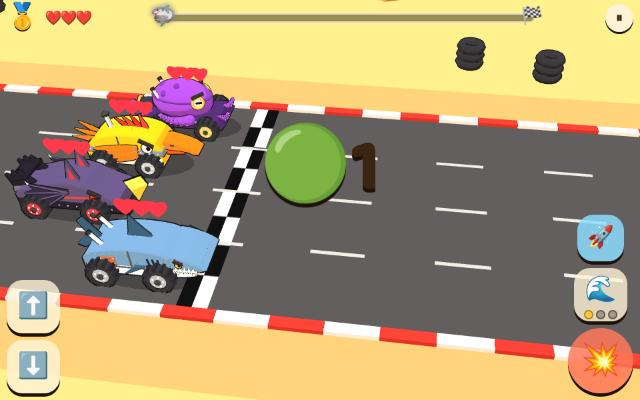
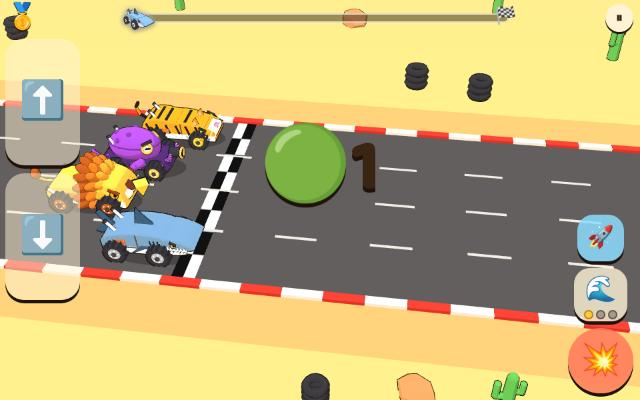
bryki: Kobra — ślizg wężykiem, czerwone oczy i kły
- models/wild-cars.js: brKobra — ciemnozielone nadwozie w łuski ze złotym pasem, głowa na szyi,
  kaptur z „okularami” (widać od tyłu), żuchwa, kły, język, ogon z segmentów; pozy i animacja
  (moc: szyja w górę, kaptur rozłożony, czerwone świecące oczy, głowa obraca się do kamery)
- game.js: atak KĄS!, moc ŚLIZG! — 3 s wężykiem: ogon smaga auta i przeszkody na sąsiednich
  pasach, w wyścigu z tyłu zostaje śliski śluz; AI używa mocy; w Infinity głowa odwraca się do gracza
- dzwieki.js: kąs, ślizg, klakson i syczący silnik kobry
- menu: siatka aut 3×3; galeria: kobra w czterech pozach

Claude-Session: https://claude.ai/code/session_01Y3fw4xhgvNbzyqSag9TcmX

diff --git a/bryki/game.js b/bryki/game.js
@@ -5,20 +5,20 @@
 // Tryb Infinity (diff 'inf'): sam gracz, w pionie, kamera za autem; przeszkody lecą z góry ekranu, 60 s jazdy, wynik w metrach,
 // pasek serii (bez uderzeń) przyspiesza auto, uderzenie zeruje serię i spowalnia jak w wyścigu.
 const PAS = 3.5, LANES = [-1.5, -.5, .5, 1.5].map(k => k * PAS), ROAD = 4 * PAS + .6;
-const KINDS = ['rekin', 'ptak', 'osmiornica', 'krab', 'nietoperz', 'zaba', 'tygrys', 'lew'];
-const IC = { rekin: '🦈', ptak: '🐦', osmiornica: '🐙', krab: '🦀', nietoperz: '🦇', zaba: '🐸', tygrys: '🐯', lew: '🦁' };
-const MOC_IC = { rekin: '🌊', ptak: '🪽', osmiornica: '🐙', krab: '🛡', nietoperz: '🦇', zaba: '🦿', tygrys: '🐾', lew: '📣' };
-const WORD_ATAK = { rekin: 'CHAP!', ptak: 'DZIOB!', osmiornica: 'PLUM!', krab: 'SZCZYP!', nietoperz: 'PIIISK!', zaba: 'MLASK!', tygrys: 'DRAP!', lew: 'GRRR!' };
-const WORD_MOC = { rekin: 'PŁETWA!', ptak: 'FRUU!', osmiornica: 'CHWYT!', krab: 'KOLCE!', nietoperz: 'RÓJ!', zaba: 'HOPSA!', tygrys: 'SUS!', lew: 'RYYYK!' };
-const SND_ATAK = { rekin: 'chap', ptak: 'dziob', osmiornica: 'tusz', krab: 'szczyp', nietoperz: 'pisk', zaba: 'jezyk', tygrys: 'drap', lew: 'grr' };
-const SND_MOC = { rekin: 'plum', ptak: 'trzepot', osmiornica: 'slurp', krab: 'klang', nietoperz: 'roj', zaba: 'sprezyna', tygrys: 'sus', lew: 'ryk' };
-const NAZWY = { rekin: 'Rekin', ptak: 'Ptak', osmiornica: 'Ośmiornica', krab: 'Krab', nietoperz: 'Nietoperz', zaba: 'Żaba', tygrys: 'Tygrys', lew: 'Lew',
+const KINDS = ['rekin', 'ptak', 'osmiornica', 'krab', 'nietoperz', 'zaba', 'tygrys', 'lew', 'kobra'];
+const IC = { rekin: '🦈', ptak: '🐦', osmiornica: '🐙', krab: '🦀', nietoperz: '🦇', zaba: '🐸', tygrys: '🐯', lew: '🦁', kobra: '🐍' };
+const MOC_IC = { rekin: '🌊', ptak: '🪽', osmiornica: '🐙', krab: '🛡', nietoperz: '🦇', zaba: '🦿', tygrys: '🐾', lew: '📣', kobra: '〰' };
+const WORD_ATAK = { rekin: 'CHAP!', ptak: 'DZIOB!', osmiornica: 'PLUM!', krab: 'SZCZYP!', nietoperz: 'PIIISK!', zaba: 'MLASK!', tygrys: 'DRAP!', lew: 'GRRR!', kobra: 'KĄS!' };
+const WORD_MOC = { rekin: 'PŁETWA!', ptak: 'FRUU!', osmiornica: 'CHWYT!', krab: 'KOLCE!', nietoperz: 'RÓJ!', zaba: 'HOPSA!', tygrys: 'SUS!', lew: 'RYYYK!', kobra: 'ŚLIZG!' };
+const SND_ATAK = { rekin: 'chap', ptak: 'dziob', osmiornica: 'tusz', krab: 'szczyp', nietoperz: 'pisk', zaba: 'jezyk', tygrys: 'drap', lew: 'grr', kobra: 'kas' };
+const SND_MOC = { rekin: 'plum', ptak: 'trzepot', osmiornica: 'slurp', krab: 'klang', nietoperz: 'roj', zaba: 'sprezyna', tygrys: 'sus', lew: 'ryk', kobra: 'slizg' };
+const NAZWY = { rekin: 'Rekin', ptak: 'Ptak', osmiornica: 'Ośmiornica', krab: 'Krab', nietoperz: 'Nietoperz', zaba: 'Żaba', tygrys: 'Tygrys', lew: 'Lew', kobra: 'Kobra',
   pustynia: 'Pustynia', zlomowisko: 'Złomowisko', wulkan: 'Wulkan', lodowiec: 'Lodowiec' };
 const LEN = 1150, CRUISE = 15, PX = -8, G = 24;              // długość trasy [m], prędkość [m/s], gracz na ekranie (x), grawitacja
 const ATAK_T = .7, ATAK_CD = 1.1, TURBO_T = 2.2, TURBO_CD = 6, MOC_FILL = 9, HIT_T = 1.0, BLINK_T = 1.4, SPIN_T = .7, GHOST_T = 1.6;
 // Moc: u każdego 3 s, ta sama prędkość i odporność; różni się tylko sposobem trafiania aut wokół
-const MOC_T = { rekin: 3, ptak: 3, osmiornica: 3, krab: 3, nietoperz: 3, zaba: 3, tygrys: 3, lew: 3 };
-const MOC_V = { rekin: 1.3, ptak: 1.3, osmiornica: 1.3, krab: 1.3, nietoperz: 1.3, zaba: 1.3, tygrys: 1.3, lew: 1.3 };
+const MOC_T = { rekin: 3, ptak: 3, osmiornica: 3, krab: 3, nietoperz: 3, zaba: 3, tygrys: 3, lew: 3, kobra: 3 };
+const MOC_V = { rekin: 1.3, ptak: 1.3, osmiornica: 1.3, krab: 1.3, nietoperz: 1.3, zaba: 1.3, tygrys: 1.3, lew: 1.3, kobra: 1.3 };
 const INF_T = 60, INF_V = 20;                                // Infinity: czas [s], prędkość startowa [m/s]
 // Infinity — prędkość: rośnie cały czas bez sufitu, przyspieszenie infAcc(v) = 1 + 30/v m/s² (mocne na starcie, potem słabsze):
 // czysta minuta 20 → 40 (10 s) → 71 (30 s) → ok. 110 m/s. Uderzenie: prędkość × ½ i dalej rozpędzanie od tego miejsca (bez szybkiego powrotu).
@@ -290,6 +290,7 @@ function genInf() {
 function itemMesh(it) {
   if (it.typ === 'tusz') return inkMesh();
   if (it.typ === 'jajo') return eggSplatMesh();
+  if (it.typ === 'sluz') return slimeMesh();
   if (it.typ === 'start' || it.typ === 'meta') return brMeta(ROAD, it.typ === 'meta', it.typ === 'meta');
   if (it.typ === 'tunel') return brTunel(it.half * 2, TH.tunel, ROAD);
   if (it.typ === 'most') return brMost(it.half * 2, 1.8, ROAD, TH.woda, TH.lawa, TH.luk);
@@ -299,6 +300,12 @@ function inkMesh() {
   const g = new T.Group();
   for (const [x, z, r] of [[0, 0, 1.3], [1.2, .4, .8], [-1.3, -.3, .9], [.4, -.7, .6], [-.5, .8, .5]]) brPart(g, new T.CircleGeometry(r, 14), brMat(0x101018), x, .05, z, { r: [-Math.PI / 2, 0, 0], ol: 0 });
   for (let i = 0; i < 4; i++) brPart(g, new T.SphereGeometry(.25 + i * .05, 8, 6), brMat(0x101018), rnd(-1.2, 1.2), .1, rnd(-.6, .6), { s: [1, .4, 1], ol: 0 });
+  return g;
+}
+function slimeMesh() {                                     // śluz kobry: zielona, lekko świecąca plama
+  const g = new T.Group();
+  for (const [x, z, r] of [[0, 0, 1.1], [.9, .3, .6], [-1, -.25, .7], [.3, -.6, .45]]) brPart(g, new T.CircleGeometry(r, 14), brMat(0x5ad83a, 'glow'), x, .05, z, { r: [-Math.PI / 2, 0, 0], ol: 0 });
+  for (let i = 0; i < 3; i++) brPart(g, new T.SphereGeometry(.18, 8, 6), brMat(0x9cff6a, 'glow'), rnd(-1, 1), .08, rnd(-.5, .5), { s: [1, .4, 1], ol: 0 });
   return g;
 }
 function eggSplatMesh() {
@@ -430,7 +437,7 @@ function act(c, a) {
   if (c.act || c.hitT > 0 || (c.fin && state !== 'menu')) return false;
   if (a === 'atak') { if (c.atakCd > 0) return false; c.atakCd = ATAK_CD; }
   if (a === 'moc') { if (c.moc < 3 && state !== 'menu') return false; if (state !== 'menu') c.moc = 0; }
-  c.act = a; c.at = 0; c.done = false; c.eggT = 0; c.landed = false; c.susN = 0; c.susAir = false; c.rykT = 0;
+  c.act = a; c.at = 0; c.done = false; c.eggT = 0; c.landed = false; c.susN = 0; c.susAir = false; c.rykT = 0; c.sluzT = .6; c.slS = undefined; c.slB = false;
   if (c.kind === 'zaba' && a === 'atak') {                 // język sięga do najbliższego auta przed sobą
     const t = state === 'menu' ? null : cars.filter(o => inReach(c, o)).sort((p, q) => p.s - q.s)[0];
     c.b.tongueYaw = 0; c.b.tongueLen = t ? clamp(t.s - c.s - c.len / 2, 2, reachOf(c) + 1) : reachOf(c);
@@ -556,14 +563,15 @@ function resolveAct(c) {
     for (const it of items) if (itemInReach(c, it)) destroy(it, c);
   } else {
     if (loud) snd(SND_MOC[k]);
-    bubble(WORD_MOC[k], c, 'big');
+    if (k !== 'kobra') bubble(WORD_MOC[k], c, 'big');        // kobra: napis dopiero po obrocie głowy (nie zasłania czerwonych oczu)
     if (k === 'rekin') for (let i = 0; i < 12; i++) part({ s: c.s, y: .2, z: c.z + rnd(-1, 1), vs: rnd(-3, 6), vy: rnd(3, 7), vz: rnd(-2, 2), col: 0x6b6560, size: .22, life: .7, grav: 1, box: 1 });
     if (k === 'nietoperz') { c.batT = 0; c.orbit = new T.Group(); scene.add(c.orbit); for (let i = 0; i < 12; i++) { const m = miniBat(); m.scale.setScalar(1.9); c.orbit.add(m); } }
   }
 }
 // Moc trwa 3 s: rekin pod asfaltem podrzuca auta, ptak zrzuca jajka, krab w kolcach taranuje, ośmiornica łapie mackami na boki,
 // nietoperz krąży w roju i wysyła nietoperze na auta przed sobą, żaba jedzie górą i ląduje z hukiem,
-// tygrys robi dwa susy (lądowanie rozbija auta obok), lew ryczy falą przez całą drogę
+// tygrys robi dwa susy (lądowanie rozbija auta obok), lew ryczy falą przez całą drogę,
+// kobra pełznie wężykiem: ogon smaga auta i przeszkody na sąsiednich pasach, za sobą zostawia śliski śluz
 function mocTick(c, dt) {
   if (state === 'menu') return;
   if (c.kind === 'osmiornica') for (const o of cars) {
@@ -610,6 +618,14 @@ function mocTick(c, dt) {
   if (c.kind === 'lew' && (c.rykT -= dt) < 0) {            // co 0,9 s fala ryku przed siebie przez wszystkie pasy
     c.rykT = .9; shootRoar(c);
     if (near(c) && c.at > .5) snd('ryk');
+  }
+  if (c.kind === 'kobra') {                                 // ślizg: płasko, wężykiem; wijący się ogon smaga sąsiednie pasy, z tyłu zostaje śliski śluz
+    const L = laneOf(c), s0 = c.slS ?? c.s; c.slS = c.s;      // przeszkody: cały odcinek przejechany w tej klatce (szybkie Infinity)
+    if (!c.slB && c.at > 1.15) { c.slB = true; bubble(WORD_MOC.kobra, c, 'big'); }
+    for (const o of cars) if (o !== c && !immune(o) && o.y < 1.4 && Math.abs(laneOf(o) - L) === 1 && o.s > c.s - c.len / 2 - 3 && o.s < c.s + 1.5 && hit(o, c, 'pop')) bubble('SMAG!', o, 'small');
+    for (const it of items) if (it.alive && ['twarda', 'skrzynia', 'miekka'].includes(it.rodzaj) && Math.abs(it.lane - L) === 1 && it.s > s0 - 3.2 && it.s < c.s + 3.2) destroy(it, c);
+    if (!INF && c.at > .6 && (c.sluzT -= dt) < 0) { c.sluzT = .3; newItem({ typ: 'sluz', s: c.s - c.len / 2 - 1.5, lane: L, rodzaj: 'slisko', len: 2.2, hitBy: new Set([c]), owner: c, ttl: 5 }); }
+    if (Math.random() < dt * 25) part({ s: c.s - c.len / 2 + rnd(0, 2), y: .2, z: c.z + rnd(-.9, .9), vs: rnd(-3, 0), vy: rnd(1, 3), col: 0x7ce84a, size: .14, life: .5, grav: 1 });
   }
   if (c.kind === 'rekin' || c.kind === 'krab') for (const o of cars) {
     if (o === c || immune(o) || o.y > 1.4) continue;
@@ -669,6 +685,7 @@ function aiThink(c) {
       : c.kind === 'zaba' ? cars.some(o => o !== c && Math.abs(laneOf(o) - L) <= 1 && Math.abs(o.s - c.s) < 10)
       : c.kind === 'tygrys' ? cars.some(o => o !== c && !o.fin && Math.abs(laneOf(o) - L) <= 1 && o.s > c.s && o.s - c.s < 22)
       : c.kind === 'lew' ? cars.some(o => o !== c && !o.fin && o.s > c.s && o.s - c.s < 16)
+      : c.kind === 'kobra' ? cars.some(o => o !== c && !o.fin && ((Math.abs(laneOf(o) - L) === 1 && Math.abs(o.s - c.s) < 4) || (laneOf(o) === L && o.s < c.s && c.s - o.s < 14)))
       : cars.some(o => o !== c && laneOf(o) === L && o.s > c.s && o.s - c.s < 14) || Math.random() < .1;
     if (useful && Math.random() < .5) { act(c, 'moc'); return; }
   }
@@ -772,6 +789,12 @@ function drawCar(c, dt) {
     const d = c.act === 'atak' ? ATAK_T : MOC_T[c.kind];
     pose = c.act; k = c.act === 'atak' ? Math.min(1, c.at / .2, (d - c.at) / .3) : Math.min(1, c.at / .25, (d - c.at) / .3);
   }
+  let wig = 0;
+  if (c.kind === 'kobra') {                                // moc: najpierw głowa w górę i do kamery (czerwone oczy, kły), potem ślizg wężykiem
+    c.b.lookYaw = state === 'menu' ? -.6 : INF ? Math.PI : -1.3;
+    c.b.lookK = pose === 'moc' ? clamp(Math.min((c.at - .1) / .2, (1.25 - c.at) / .25), 0, 1) : 0;
+    if (pose === 'moc') wig = Math.sin(c.at * 8) * .45 * clamp((c.at - .9) / .3, 0, 1) * k;
+  }
   brykaPose(c.b, pose, clamp(k, 0, 1)); brykaTick(c.b, dt, c.v);
   if (c.orbit) {                                           // rój nietoperzy krąży wokół auta, póki trwa moc
     if (!(mocOn(c) && c.kind === 'nietoperz')) { scene.remove(c.orbit); c.orbit = null; }
@@ -783,7 +806,7 @@ function drawCar(c, dt) {
   }
   const g = c.b.g, x = c.s - camS, gy = H(c.s);
   const pitch = c.y < .05 ? Math.atan(Hd(c.s)) : (mocOn(c) && c.kind === 'ptak') ? 0 : clamp(Math.atan2(c.vy, Math.max(c.v, 4)), -.45, .45);
-  g.position.set(x, c.ya, c.z);
+  g.position.set(x, c.ya, c.z + wig);
   g.rotation.set(c.tilt, (c.spinT > 0 ? (1 - c.spinT / c.spinD) * Math.PI * 2 : 0) + (INF ? c.yaw : 0), pitch);
   g.visible = !(c.blinkT > 0 && c.blinkT < BLINK_T - .2 && Math.floor(c.blinkT * 12) % 2);
   c.sh.position.set(x, gy + .03, c.z); c.sh.scale.set(c.b.len * .5 / (1 + c.y * .15), 1.3 / (1 + c.y * .15), 1);

diff --git a/models/wild-cars.js b/models/wild-cars.js
@@ -1,6 +1,6 @@
 // Bryki — groźne pojazdy inspirowane zwierzętami, „zespawane” z blach, z nitami i spawami. Bez zwierząt w środku.
 // Widok z boku (2.5D): przód = +x, góra = +y, szerokość wzdłuż z. Kreskówkowe cieniowanie + czarny kontur.
-// buildBryka('rekin'|'ptak'|'osmiornica'|'krab'|'nietoperz'|'zaba'|'tygrys'|'lew', kolory?) → { g, body, kind, p: części, wheels, len }
+// buildBryka('rekin'|'ptak'|'osmiornica'|'krab'|'nietoperz'|'zaba'|'tygrys'|'lew'|'kobra', kolory?) → { g, body, kind, p: części, wheels, len }
 // brykaPose(b, 'jazda'|'atak'|'moc'|'oberwal', k 0..1) · brykaTick(b, dt, prędkość) — koła, bujanie, macki, pióra
 // wymaga: lib/3d/comic.js, lib/ui/comic.js (brMat, brPart, brExt, brBox, brCyl, brLimb), THREE
 
@@ -13,6 +13,7 @@ const BRYKI_KOLORY = () => ({
   zaba: { a: 0x3f9a34, b: 0xe6e08a, c: 0xff5a8a },
   tygrys: { a: 0xf0841c, b: 0xfff1dc, c: 0x1e1a1a },
   lew: { a: 0xe0a83a, b: 0xfff0c8, c: 0x9a4a1a },
+  kobra: { a: 0x123a20, b: 0xd9c27a, c: 0x081209 },
 });
 
 // Nity: rząd od (x0,y0) do (x1,y1), po obu bokach ±z
@@ -72,7 +73,7 @@ function buildBryka(kind, kol) {
   const C = { ...BRYKI_KOLORY()[kind], ...(kol || {}) };
   const g = new THREE.Group(), body = new THREE.Group(); g.add(body);
   const b = { g, body, kind, C, p: {}, wheels: [], t: 0, len: 4.6, pose: {} };
-  ({ rekin: brRekin, ptak: brPtak, osmiornica: brOsmiornica, krab: brKrab, nietoperz: brNietoperz, zaba: brZaba, tygrys: brTygrys, lew: brLew })[kind](b);
+  ({ rekin: brRekin, ptak: brPtak, osmiornica: brOsmiornica, krab: brKrab, nietoperz: brNietoperz, zaba: brZaba, tygrys: brTygrys, lew: brLew, kobra: brKobra })[kind](b);
   g.userData.bryka = kind;
   return b;
 }
@@ -460,6 +461,75 @@ function brLew(b) {
   b.len = 5.2;
 }
 
+// KOBRA: długie, niskie nadwozie w łuski (ciemne romby na grzbiecie, złoty pas na bokach), z przodu głowa na szyi-wysięgniku
+// (szyja na zawiasie: w jeździe pochylona do przodu, głowa jak ozdoba na masce); kaptur za głową — złożony, w mocy rozłożony,
+// z tyłu wzór „okularów” (widać go od tyłu); złe oczy z brwiami, w mocy świecą na czerwono (b.p.red); kły na tłoczkach (b.p.fangs),
+// żuchwa na zawiasie, rozwidlony język; długi ogon z segmentów (faluje wężykiem).
+// Głowa w mocy obraca się do widza: b.lookYaw (kąt wokół pionu, domyślnie −0,6), b.lookK 0..1 (domyślnie = k pozy).
+function brKobra(b) {
+  const B = b.body, C = b.C, W = 1.8, Z = W / 2, GOLD = 0xd4a62a;
+  const top = [[-2.45, 1.05], [-2.1, 1.3], [-1.2, 1.38], [-.2, 1.42], [.6, 1.38], [1.3, 1.22], [1.9, .98], [2.25, .75]];
+  brPart(B, brExt([[-2.4, .55, 1], ...top, [2.3, .55, 1]], W, .05, 1), C.a);
+  brPart(B, brExt([[-2.35, .5], [2.25, .5], [2.25, .78], [-2.35, .74]], W + .12, .03), C.b);              // jasny brzuch
+  const roofY = x => { for (let i = 1; i < top.length; i++) if (x <= top[i][0]) { const [x0, y0] = top[i - 1], [x1, y1] = top[i]; return y0 + (y1 - y0) * (x - x0) / (x1 - x0); } return .75; };
+  const dia = new THREE.OctahedronGeometry(.3, 0);
+  for (let i = 0; i < 7; i++) { const x = -2.0 + i * .55; brPart(B, dia, i % 2 ? C.c : 0xd4a62a, x, roofY(x) + .02, 0, { s: [1.1, .14, 1.5], ol: .015 }); }   // romby na grzbiecie
+  for (const sd of [-1, 1]) {
+    brPart(B, brBox(4.3, .07, .03), GOLD, -.1, 1.02, sd * (Z + .02), { ol: 0 });                          // złoty pas
+    for (let i = 0; i < 8; i++) brPart(B, brBox(.2, .2, .03), C.c, -2.0 + i * .55, 1.02, sd * (Z + .03), { r: [0, 0, Math.PI / 4], ol: 0 });
+  }
+  // szyja z głową i kapturem
+  const neck = new THREE.Group(); neck.position.set(.75, 1.25, 0); B.add(neck); b.p.neck = neck;
+  brLimb(neck, [0, -.1, 0], [0, 1.25, 0], .3, .26, C.a);
+  for (let i = 0; i < 4; i++) brPart(neck, brBox(.06, .2, .34), C.b, .27, .15 + i * .27, 0, { ol: .01 });   // płytki brzuszne z przodu szyi
+  const hood = new THREE.Group(); hood.position.set(-.08, .8, 0); neck.add(hood); b.p.hood = hood;
+  brPart(hood, new THREE.SphereGeometry(1, 16, 12), C.a, 0, 0, 0, { s: [.1, .85, 1.05], ol: .025 });
+  brPart(hood, new THREE.SphereGeometry(1, 14, 10), C.b, .04, -.06, 0, { s: [.08, .68, .72], ol: 0 });     // jasny przód kaptura
+  for (const sd of [-1, 1]) {                                // „okulary” z tyłu kaptura
+    brPart(hood, new THREE.TorusGeometry(.2, .06, 6, 16), C.b, -.09, .14, sd * .38, { r: [0, Math.PI / 2, 0], ol: .01 });
+    brPart(hood, brCyl(.13, .13, .03, 12, 'x'), C.c, -.1, .14, sd * .38, { ol: 0 });
+  }
+  brPart(hood, brBox(.03, .08, .42), C.b, -.1, .06, 0, { ol: 0 });
+  const head = new THREE.Group(); head.position.set(0, 1.25, 0); head.rotation.order = 'ZYX'; head.scale.setScalar(1.22); neck.add(head); b.p.head = head;
+  brPart(head, brExt([[-.35, -.12], [-.38, .14], [-.1, .32], [.45, .3], [.85, .14], [.98, -.02], [.9, -.1], [-.35, -.12]], .9, .04, 1), C.a);
+  brPart(head, dia, GOLD, .15, .33, 0, { s: [.8, .12, .6], ol: .012 });                                    // złoty romb na czole
+  brPart(head, brBox(.5, .1, .5), 0x5a0f12, .45, -.12, 0, { ol: 0 });                                       // gardło
+  for (const sd of [-1, 1]) brPart(head, new THREE.SphereGeometry(.035, 6, 4), C.c, .9, .08, sd * .1, { ol: 0 });   // nozdrza
+  const jaw = new THREE.Group(); jaw.position.set(-.2, -.1, 0); head.add(jaw); b.p.jaw = jaw;
+  brPart(jaw, brExt([[0, 0], [1.05, .02], [.95, -.12, 1], [0, -.18]], .8, .03), C.b);
+  const fangs = new THREE.Group(); fangs.position.set(.78, -.08, 0); head.add(fangs); b.p.fangs = fangs;
+  for (const sd of [-1, 1]) brPart(fangs, new THREE.ConeGeometry(.055, .36, 6), 0xf6f3e8, 0, -.16, sd * .26, { r: [0, 0, Math.PI + .12], ol: .012 });
+  const tongue = new THREE.Group(); tongue.position.set(.85, -.07, 0); head.add(tongue); b.p.tongue = tongue;
+  brPart(tongue, brBox(.45, .03, .06), 0xd0203a, .22, 0, 0, { ol: 0 });
+  for (const sd of [-1, 1]) brPart(tongue, brBox(.18, .03, .045), 0xd0203a, .5, 0, sd * .04, { r: [0, sd * -.5, 0], ol: 0 });
+  // oczy: żółte z pionową źrenicą i groźną brwią; w mocy czerwone, świecące (z poświatą)
+  const red = new THREE.Group(); head.add(red); b.p.red = red; red.visible = false;
+  const glow = new THREE.MeshBasicMaterial({ color: 0xff2a1a, transparent: true, opacity: .3, depthWrite: false, blending: THREE.AdditiveBlending });
+  for (const sd of [-1, 1]) {
+    brPart(head, new THREE.SphereGeometry(.13, 12, 9), brMat(0xffd23f, 'glow'), .56, .25, sd * .3, { ol: .02 });
+    brPart(head, brBox(.05, .17, .05), brMat(0x111111, 'glow'), .66, .25, sd * .36, { r: [0, sd * -.9, 0], ol: 0 });   // pionowa źrenica
+    brPart(head, brBox(.34, .06, .2), C.c, .52, .38, sd * .3, { r: [sd * .35, 0, -.5], ol: .01 });                    // brew: w dół ku nosowi
+    brPart(red, new THREE.SphereGeometry(.15, 12, 9), brMat(0xff2a1a, 'glow'), .56, .25, sd * .3, { ol: .02 });
+    const h = new THREE.Mesh(new THREE.SphereGeometry(.24, 12, 9), glow); h.position.set(.62, .25, sd * .32); red.add(h);
+  }
+  // ogon: segmenty od tyłu nadwozia, w paski, z kolcem na końcu
+  b.p.tail = [];
+  let par = B, x0 = -2.4;
+  for (let i = 0; i < 6; i++) {
+    const sg = new THREE.Group(); sg.position.set(x0, i ? 0 : .95, 0); par.add(sg); b.p.tail.push(sg);
+    const r = .22 - i * .03;
+    brLimb(sg, [0, 0, 0], [-.42, 0, 0], r, r - .03, i % 2 ? C.c : C.a);
+    par = sg; x0 = -.42;
+  }
+  brPart(par, new THREE.ConeGeometry(.07, .3, 6), C.c, -.55, 0, 0, { r: [0, 0, Math.PI / 2], ol: .012 });
+  brPipe(B, -1.7, .95, Z + .05, .9, .6); brPipe(B, -1.7, .95, -Z - .05, .9, .6);
+  brPatch(B, -1.0, .95, .5, .3, Z + .02, 0x6a5a2a, .06);
+  brWeld(B, .2, .8, .15, 1.38, Z + .01);
+  brRivets(B, -2.2, .66, 2.0, .66, 12, Z + .07, GOLD);
+  brWheels(b, [1.3, -1.5], Z + .12, .55, .48, GOLD);
+  b.len = 5.2;
+}
+
 /* --- pozy i animacja --- */
 // k = 0..1; każda poza liczona od zera (neutralnej)
 function brykaPose(b, pose, k = 1) {
@@ -518,6 +588,18 @@ function brykaPose(b, pose, k = 1) {
     P.mane.scale.setScalar(1 + .12 * a + .45 * m);                                                       // ryk: grzywa się jeży
     B.rotation.z = .12 * m;
   }
+  if (b.kind === 'kobra') {
+    const a = pose === 'atak' ? k : 0, m = pose === 'moc' ? k : 0, L = (b.lookK ?? 1) * m;
+    const th = -1.15 + 1.25 * m - .35 * a;                                                          // szyja: pochylona → wyprostowana (moc) / wypad (atak)
+    P.neck.rotation.z = th;
+    P.head.rotation.set(0, (b.lookYaw ?? -.6) * L, -th - .25 * a + .1 * m);                         // głowa poziomo, w mocy do widza
+    P.head.scale.setScalar(1.22 * (1 + .4 * L));                                                    // groźna mina z bliska: głowa rośnie
+    P.jaw.rotation.z = -.55 * a - .4 * m;
+    P.fangs.scale.set(1, .2 + .8 * Math.max(a, m), 1);
+    P.hood.scale.set(1, .75 + .35 * m, .3 + .75 * m);
+    P.red.visible = m > .3;
+    B.position.y = -.12 * m;                                                                       // ślizg: nisko przy ziemi
+  }
   if (pose === 'oberwal') { B.rotation.z = .22 * k; B.rotation.x = .12 * k; B.position.y = .25 * k; }
   b.baseY = B.position.y;
   brykaTick(b, 0, 0);
@@ -543,5 +625,12 @@ function brykaTick(b, dt, v) {
   if (b.kind === 'ptak' && b.pose.pose === 'moc') P.wings.forEach(w => { w.rotation.z = -(1.5 + Math.sin(t * 14) * .4) * b.pose.k; });
   if (b.kind === 'rekin') P.fin.rotation.x = b.pose.pose === 'moc' ? Math.sin(t * 9) * .08 : 0;
   if (b.kind === 'tygrys' || b.kind === 'lew') P.tail.rotation.x = Math.sin(t * 3) * .25;                 // ogon się kołysze
+  if (b.kind === 'kobra') {                                                                          // ogon wężykiem, język, w mocy całe auto się wije
+    const m = b.pose.pose === 'moc' ? b.pose.k : 0;
+    P.tail.forEach((sg, i) => { sg.rotation.y = Math.sin(t * (4 + 5 * m) - i * .9) * (.16 + .3 * m); sg.rotation.z = i ? .05 : .2; });
+    const f = (t * 1.3) % 2.2; P.tongue.scale.x = f < .35 || m > 0 ? Math.max(.01, Math.sin(Math.min(1, f / .35) * Math.PI)) + m * .3 : .01;
+    P.tongue.visible = P.tongue.scale.x > .05;
+    b.body.rotation.y = Math.sin(t * 9) * .1 * m;
+  }
   if (b.kind === 'lew') P.mane.rotation.x = b.pose.pose === 'moc' ? Math.sin(t * 40) * .06 * b.pose.k : 0;
 }

diff --git a/bryki/dzwieki.js b/bryki/dzwieki.js
@@ -54,6 +54,10 @@ function snd(name) {
     case 'ryk': N(1.1, .7, 320, 110, 1.4, 0, 'lowpass'); T(95, 58, 1.1, 'sawtooth', .35, 0, [21, 22]); T(150, 92, 1.0, 'sawtooth', .2, .04, [17, 30]); N(.9, .3, 1300, 500, 2, .1); break;   // RYYYK
     case 'klakson_tygrys': T(330, 620, .22, 'sawtooth', .17, 0, [22, 25]); T(620, 290, .42, 'sawtooth', .17, .22, [22, 25]); break;               // „mrrr-au”
     case 'klakson_lew': T(78, 115, .45, 'sawtooth', .28, 0, [24, 18]); T(115, 70, .55, 'sawtooth', .28, .42, [24, 18]); N(.9, .2, 400, 200, 2, 0, 'lowpass'); break;   // „hrrr-uuu”
+    // kobra
+    case 'kas': N(.3, .35, 7000, 4500, .8, 0, 'highpass'); T(320, 90, .12, 'square', .25, .2); M(1800, .06, .25, .22); M(2200, .05, .2, .25); break;                   // sssss-KĄS (kły)
+    case 'slizg': N(1.3, .45, 6500, 3800, .8, 0, 'highpass'); T(110, 80, 1.2, 'sawtooth', .1, .1, [7, 25]); N(1.1, .2, 900, 500, 3, .15); break;                    // długi syk + pełzanie
+    case 'klakson_kobra': N(.45, .3, 6200, 4800, 1, 0, 'highpass'); T(150, 95, .55, 'sawtooth', .17, .3, [5, 10]); break;                                    // „sssss-hhaaa”
     // klaksony: każde auto po swojemu
     case 'klakson_rekin': T(200, 300, .25, 'sawtooth', .2, 0, [6, 6]); T(300, 300, .35, 'sawtooth', .2, .25); break;              // „a-uuu-ga”
     case 'klakson_ptak': [784, 988, 1175, 1568].forEach((f, i) => T(f, f * (i === 3 ? .8 : 1.05), i === 3 ? .4 : .12, 'square', .13, i * .12)); break;   // kukuryku
@@ -143,6 +147,14 @@ function audVoice(kind) {
     V.set = (r, tu) => { const b = 28 + 40 * r, t = A.currentTime;
       o1.frequency.setTargetAtTime(b, t, .07); sub.frequency.setTargetAtTime(b / 2, t, .07);
       f.frequency.setTargetAtTime(220 + 600 * r + (tu ? 700 : 0), t, .1); lp.frequency.setTargetAtTime(200 + 400 * r, t, .1); };
+  }
+  if (kind === 'kobra') {                    // syczący silnik: niska piła przez filtr + syk z szumu, falujący wężykiem
+    const o1 = osc('sawtooth', 36), o2 = osc('triangle', 54), f = filt('lowpass', 450, 4);
+    o1.connect(f); o2.connect(gain(.4)).connect(f); f.connect(out);
+    const n = noise(), hp = filt('highpass', 4800, .8), ng = gain(.05); n.connect(hp).connect(ng).connect(out); lfo(3.5, .035, ng.gain);
+    V.set = (r, tu) => { const b = 34 + 50 * r, t = A.currentTime;
+      o1.frequency.setTargetAtTime(b, t, .06); o2.frequency.setTargetAtTime(b * 1.5, t, .06);
+      f.frequency.setTargetAtTime(300 + 700 * r + (tu ? 800 : 0), t, .08); ng.gain.setTargetAtTime(.04 + .06 * r + (tu ? .08 : 0), t, .1); };
   }
   const setFn = V.set;
   V.set = (r, tu, vol, p = 0) => { const t = A.currentTime; setFn(r, tu); out.gain.setTargetAtTime(vol, t, .08); if (pan) pan.pan.setTargetAtTime(p, t, .08); };

diff --git a/galeria/modele.js b/galeria/modele.js
@@ -67,7 +67,7 @@ const MODELE = [
 
   ...['wood', 'saber', 'bow', 'sword', 'rapier', 'axe', 'katana', 'anchor', 'trident', 'swordfish'].map(id => ({ kat: 'broń', typ: id, gra: 'piraci', js: `mkWeapon('${id}')` })),
   // Dzikie Bryki: każdy pojazd w pozach jazda / atak / moc / oberwał (brykaPose)
-  ...[['rekin', 'rekin'], ['ptak', 'ptak'], ['ośmiornica', 'osmiornica'], ['krab', 'krab'], ['nietoperz', 'nietoperz'], ['żaba', 'zaba'], ['tygrys', 'tygrys'], ['lew', 'lew']].flatMap(([typ, k]) => ['jazda', 'atak', 'moc', 'oberwal']
+  ...[['rekin', 'rekin'], ['ptak', 'ptak'], ['ośmiornica', 'osmiornica'], ['krab', 'krab'], ['nietoperz', 'nietoperz'], ['żaba', 'zaba'], ['tygrys', 'tygrys'], ['lew', 'lew'], ['kobra', 'kobra']].flatMap(([typ, k]) => ['jazda', 'atak', 'moc', 'oberwal']
     .map(pz => ({ kat: 'bryki', typ, gra: 'bryki', js: `(() => { const b = buildBryka('${k}'); brykaPose(b, '${pz}', 1); return b.g; })()` }))),
 
   // Dzikie Bryki — trasy: przeszkody na pasach i rekwizyty przy drodze (bryki/tracks.js)

diff --git a/bryki/index.html b/bryki/index.html
@@ -115,7 +115,7 @@ body.inf #left .gb{width:var(--k);height:var(--k);flex:none;max-height:none;font
   <div class="card">
     <h1>Dzikie Bryki</h1><p class="sub">Wyścig groźnych bryk</p>
     <p class="q">Którą bryką jedziesz?</p>
-    <div class="grid g4" id="pickCar"></div>
+    <div class="grid g3" id="pickCar"></div>
     <p class="q">Gdzie jedziemy?</p><div class="grid g4" id="pickTrack"></div>
     <p class="q">Jak jedziemy?</p>
     <div class="grid g3" id="pickDiff"><button class="btn pick" data-d="latwy"><span class="ico">🐣</span>Łatwo</button><button class="btn pick" data-d="trudny"><span class="ico">🔥</span>Dorosły</button><button class="btn pick" data-d="inf"><span class="ico">♾</span>Infinity</button></div>

diff --git a/README.md b/README.md
@@ -83,7 +83,7 @@ flowchart LR
 | `models/trains.js` | 166 | ciuchcia taxi | Pociągi: parowóz z tendrem, wagony osobowe i towarowe, EU07, Pendolino; koła szynowe, sprzęgi, zderzaki. |
 | `models/vehicle-parts.js` | 27 | ciuchcia taxi zniwa | Części pojazdów: makeWheel (koło z felgą i bieżnikiem), makeSteeringWheel (kierownica), gaugeNeedle (wskazówka zegara). |
 | `models/weapons.js` | 39 | piraci | Broń biała i pociski (Piraci): bladeGeo, mkWeapon(rodzaj) — szabla, miecz, rapier, katana, topór, łuk, kotwica, trójząb…, |
-| `models/wild-cars.js` | 547 | bryki | Bryki — groźne pojazdy inspirowane zwierzętami, „zespawane” z blach, z nitami i spawami. Bez zwierząt w środku. |
+| `models/wild-cars.js` | 636 | bryki | Bryki — groźne pojazdy inspirowane zwierzętami, „zespawane” z blach, z nitami i spawami. Bez zwierząt w środku. |
 <!-- /KATALOG -->
 
 ## Narzędzia
